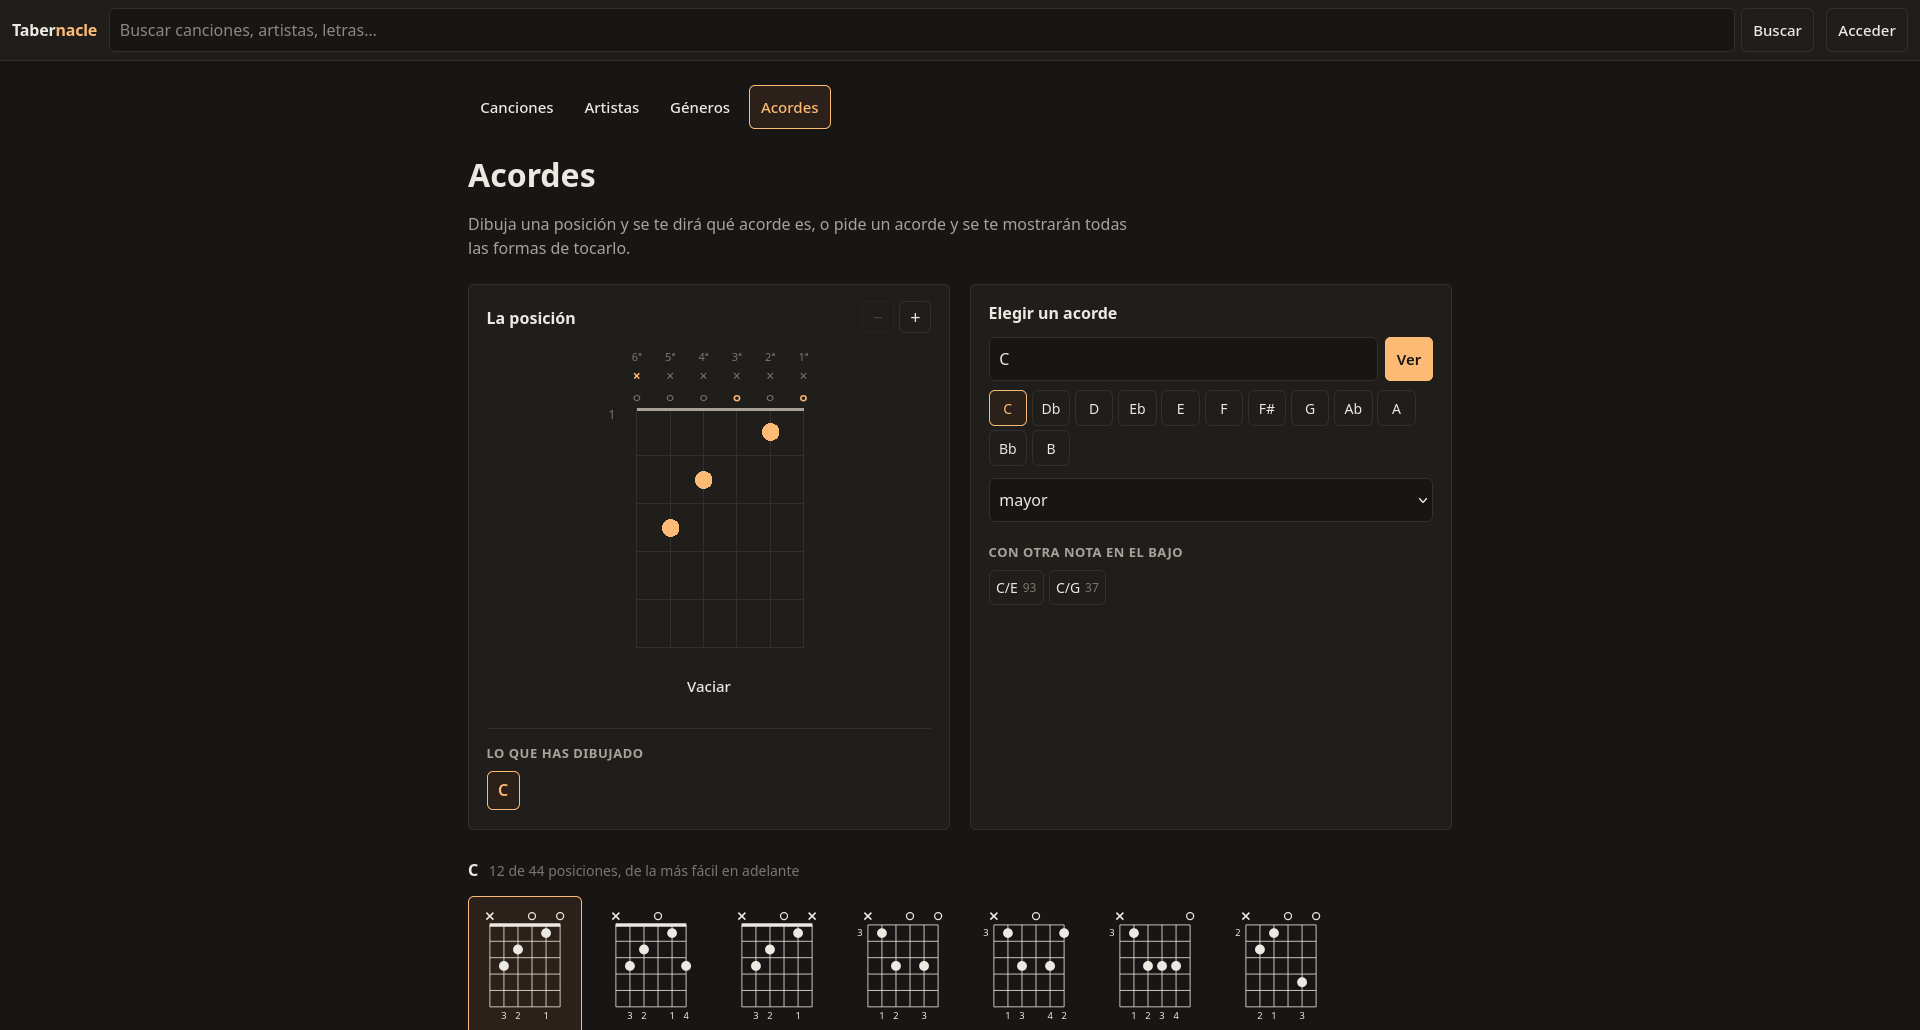
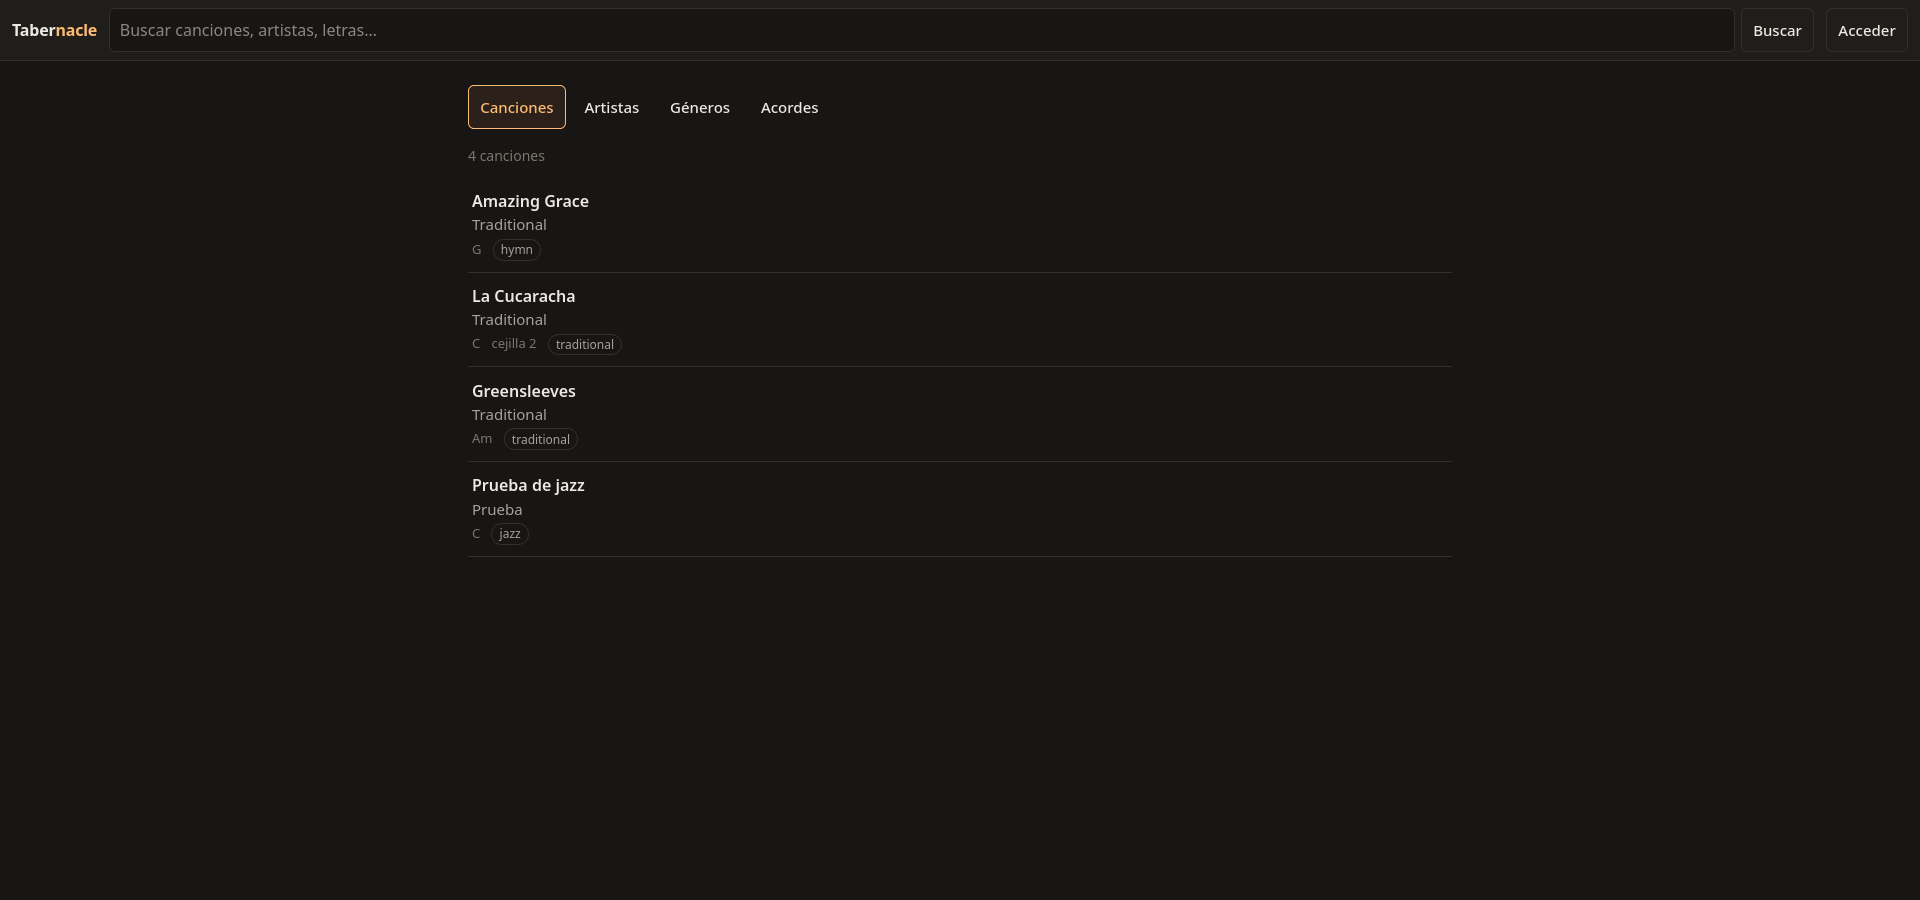
Name the thumbnail's font instead of asking the system
system-ui is the reader's desktop font, which is right for the page and
wrong for a fixed PNG: headless Firefox has no desktop to ask and fell
back to Noto Sans, so the card was in a face nobody sees.

diff --git a/assets/thumbnail.html b/assets/thumbnail.html
@@ -6,9 +6,15 @@
 -->
 <meta charset="utf-8">
 <style>
-/* The same declarations the header uses, copied from app.css: the store card
-   and the page have to be the same typeface, the same weight and the same
-   tightening, or the thumbnail is somebody else's product.
+/* The header's declarations, copied from app.css — the same weight and the same
+   tightening — but with the family named outright instead of system-ui.
+   That difference is the whole point. On the page, system-ui is the reader's own
+   desktop font, and that is right: the interface should look native. A store
+   card is a fixed PNG, so it has to be one face, and whichever machine renders
+   it must produce the same image. Headless Firefox has no desktop to ask and
+   falls back to Noto Sans, which is not what a GNOME reader sees.
+   Adwaita Sans is that reader's system-ui, and close enough to Segoe UI and to
+   SF Pro that the card does not look like a different product anywhere.
    The glyph appears without the icon's rounded square — a dark box on a dark
    ground reads as a smudge, and the store shows the real icon beside this
    anyway. */
@@ -17,7 +23,7 @@ body {
   width: 1200px; height: 630px; background: #171614;
   display: flex; align-items: center; gap: 76px; padding: 0 96px;
   box-sizing: border-box;
-  font-family: system-ui, -apple-system, "Segoe UI", Roboto, "Helvetica Neue", Arial, sans-serif;
+  font-family: "Adwaita Sans", Inter, system-ui, "Segoe UI", Roboto, sans-serif;
   color: #e8e4dc;
 }
 svg { width: 250px; height: 250px; flex: 0 0 auto }

diff --git a/assets/README.md b/assets/README.md
@@ -25,7 +25,18 @@ firefox --headless --screenshot assets/thumbnail.png --window-size=1200,630 \
 ```
 
 The thumbnail is rendered by a browser rather than drawn as an SVG on purpose:
-it copies its declarations from `app.css`, so the store card and the page cannot
-end up in different typefaces. The screenshots come from the running
-application in the dark theme, which is what the icon and the card are built
-for.
+it copies its declarations from `app.css`, so the card carries the wordmark's
+real weight and tightening.
+
+It names the family outright rather than saying `system-ui`, and that difference
+matters. On the page, `system-ui` is the reader's own desktop font, which is what
+makes the interface look native — Adwaita Sans on GNOME, Segoe UI on Windows, SF
+Pro on macOS. A store card is one fixed PNG, so it has to pick one, and it must
+render the same on whatever machine builds it: headless Firefox has no desktop
+to ask and quietly falls back to Noto Sans, which is nobody's system font.
+Adwaita Sans is the one named, being close enough to the others that the card
+does not look like a different product anywhere.
+
+The screenshots come from the running application in the dark theme, which is
+what the icon and the card are built for. They run library, song sheet, chord
+page — what you see on opening it, then a song, then the tool.
